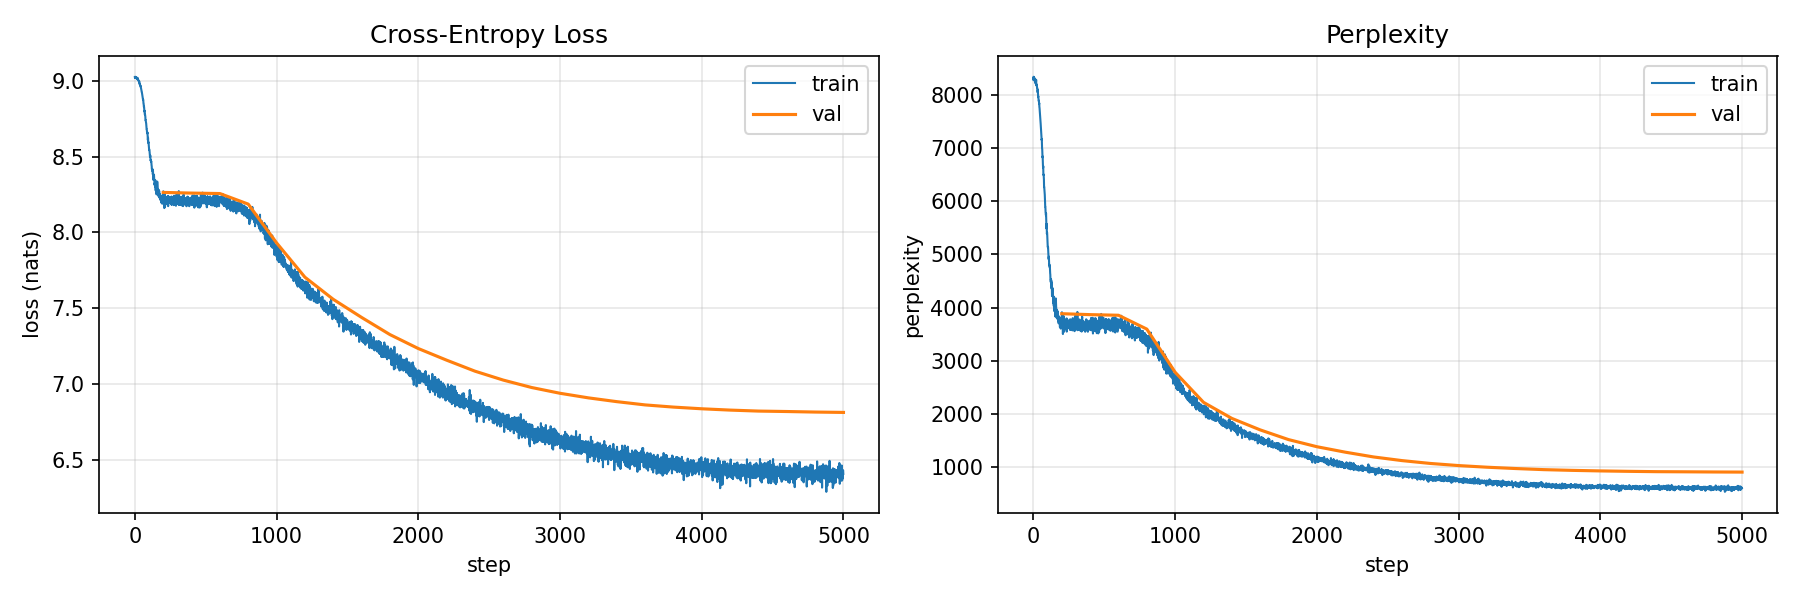
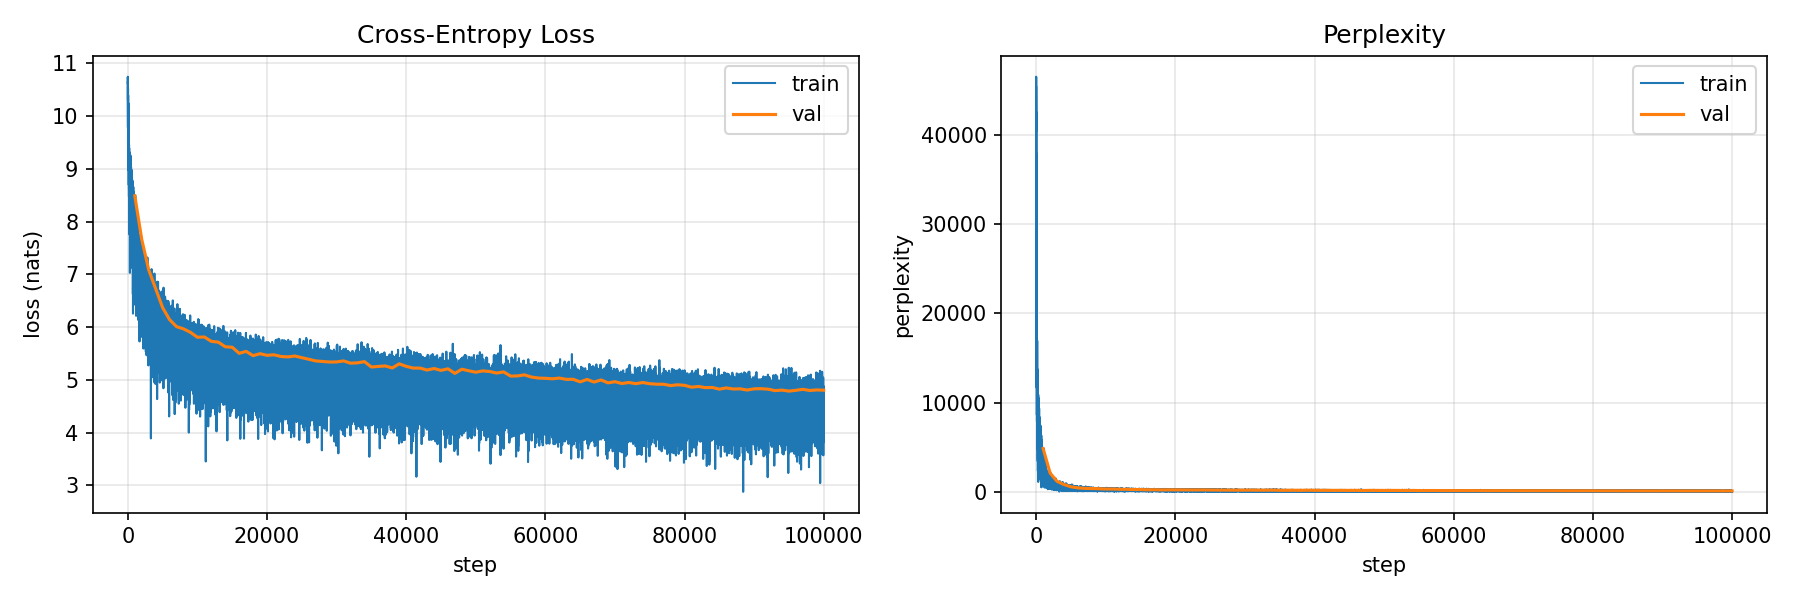
fix attention hook attribute name; add training run figures
plot_curves.py used model.blocks[-1].attn but TransformerBlock names
it self.attention — updated to match. Generated all 8 figures from
the completed 100k-step small-scale training run.

diff --git a/scripts/plot_curves.py b/scripts/plot_curves.py
@@ -262,7 +262,7 @@ def main() -> None:
         # Capture attention weights from the last block via a forward hook —
         # avoids changing GPT's interface; weights are (batch, n_heads, seq, seq)
         captured = {}
-        last_attn = model.blocks[-1].attn
+        last_attn = model.blocks[-1].attention
         last_attn.return_attn_weights = True
         handle = last_attn.register_forward_hook(
             lambda _m, _inp, out: captured.update({"weights": out[1].detach().cpu()})
@@ -270,7 +270,7 @@ def main() -> None:
         with torch.no_grad():
             model(idx)
         handle.remove()
-        last_attn.return_attn_weights = False
+        last_attn.return_attn_weights = False  # type: ignore[assignment]
 
         if "weights" in captured:
             weights = captured["weights"][0]   # (n_heads, seq_len, seq_len) — first batch item
